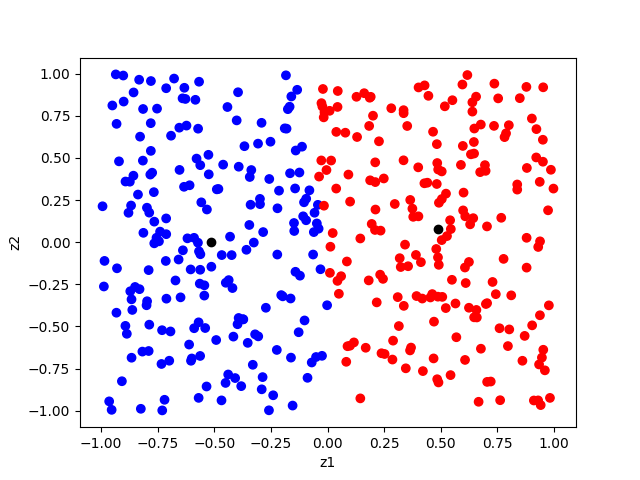
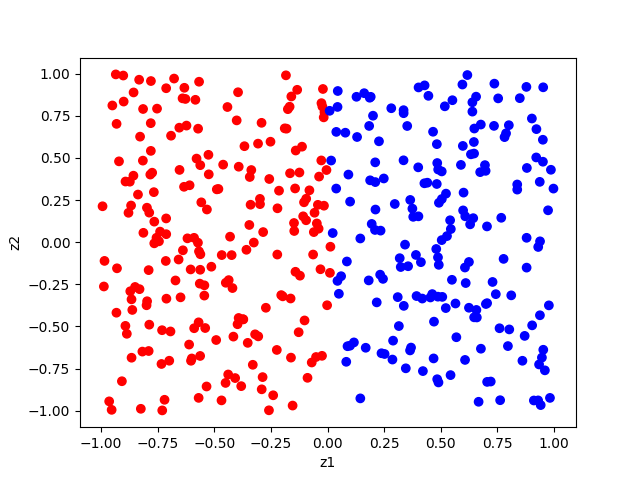
Finish visualizations

diff --git a/SI/p3/pso_clustering.py b/SI/p3/pso_clustering.py
@@ -2,6 +2,8 @@ import random
 import math
 import numpy as np
 import statistics
+import matplotlib as mpl
+import matplotlib.pyplot as plt 
 
 def iris() -> list[list[float]]:
     with open('iris.data', 'r') as f:
@@ -135,26 +137,48 @@ def pso_clustering(nc, z, t_max, omega, alpha, r):
     
     return global_best
 
+
 def main():
     z_iris = iris()
     z_artificial1 = artificial1()
 
+    _, ax = plt.subplots()
+    solution: list = pso_clustering(nc=3, z=z_iris, t_max=100, omega=0.62, alpha=1.49, r=1.0)
+    c = []
+    for p in z_iris:
+        for j, m in enumerate(solution):
+            if p in m.points:
+                c.append(j)
+    cmap = mpl.colors.ListedColormap([[1., 0., 0.], [0., 1., 0.], [0., 0., 1.]])
+    z = np.array(z_iris)
+    ax.scatter(z[:,1], z[:,0], c=c, cmap=cmap)
+    plt.show()
+
+    _, ax = plt.subplots()
+    solution = pso_clustering(nc=2, z=z_artificial1, t_max=100, omega=0.55, alpha=1.49, r=1.0)
+    x, y = np.array(solution[0].points).T
+    ax.plot(x, y, 'ro')
+    x, y = np.array(solution[1].points).T
+    ax.plot(x, y, 'bo')
+    plt.show()
+
     err_iris = []
     err_artificial1 = []
 
-    for _ in range(30):
+    for i in range(30):
         solution = pso_clustering(nc=3, z=z_iris, t_max=100, omega=0.62, alpha=1.49, r=1.0)
         p = Partical(3, z_iris)
         p.centroids = solution
         err_iris.append(p.compute_fitness(solution))
 
-        solution = pso_clustering(nc=2, z=artificial1(), t_max=100, omega=0.55, alpha=1.49, r=1.0)
+        solution = pso_clustering(nc=2, z=z_artificial1, t_max=100, omega=0.55, alpha=1.49, r=1.0)
         p = Partical(2, z_artificial1)
         p.centroids = solution
         err_artificial1.append(p.compute_fitness(solution))
 
     print('iris\t\t', f'{statistics.mean(err_iris):.3f} {statistics.stdev(err_iris):.3f}')
     print('artificial1\t', f'{statistics.mean(err_artificial1):.3f} {statistics.stdev(err_artificial1):.3f}')
+
 
 if __name__ == '__main__':
     main()

diff --git a/SI/p3/kmeans.py b/SI/p3/kmeans.py
@@ -149,9 +149,6 @@ def main():
     x, y = np.array(z_artificial1).T
     axes.scatter(x, y, c=cluster, cmap=cmap)
 
-    mx, my = np.array(m).T
-    axes.plot(mx, my, 'ko')
-
     # Plot actual clusters
 
     fig, axes = plt.subplots()
